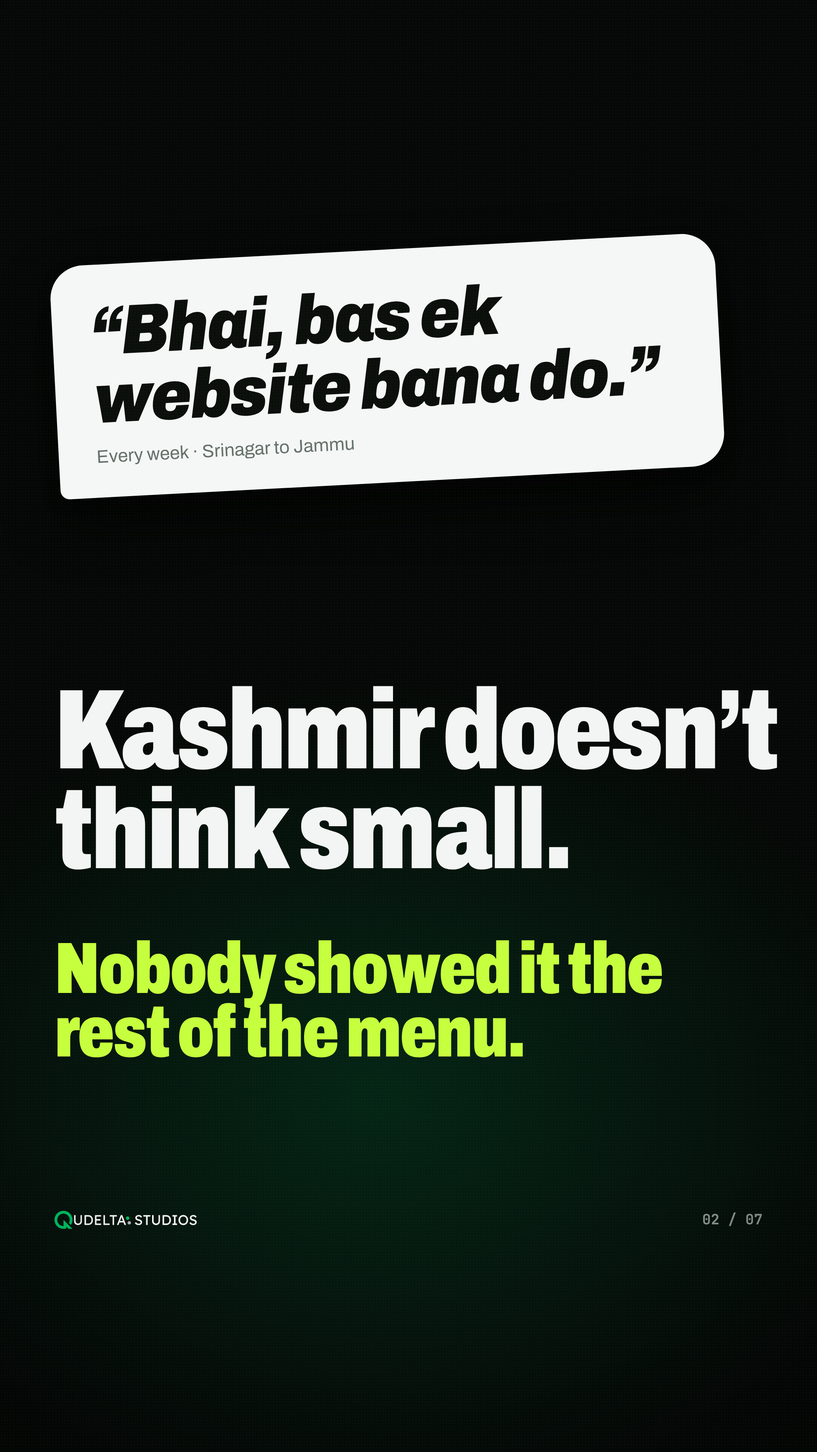
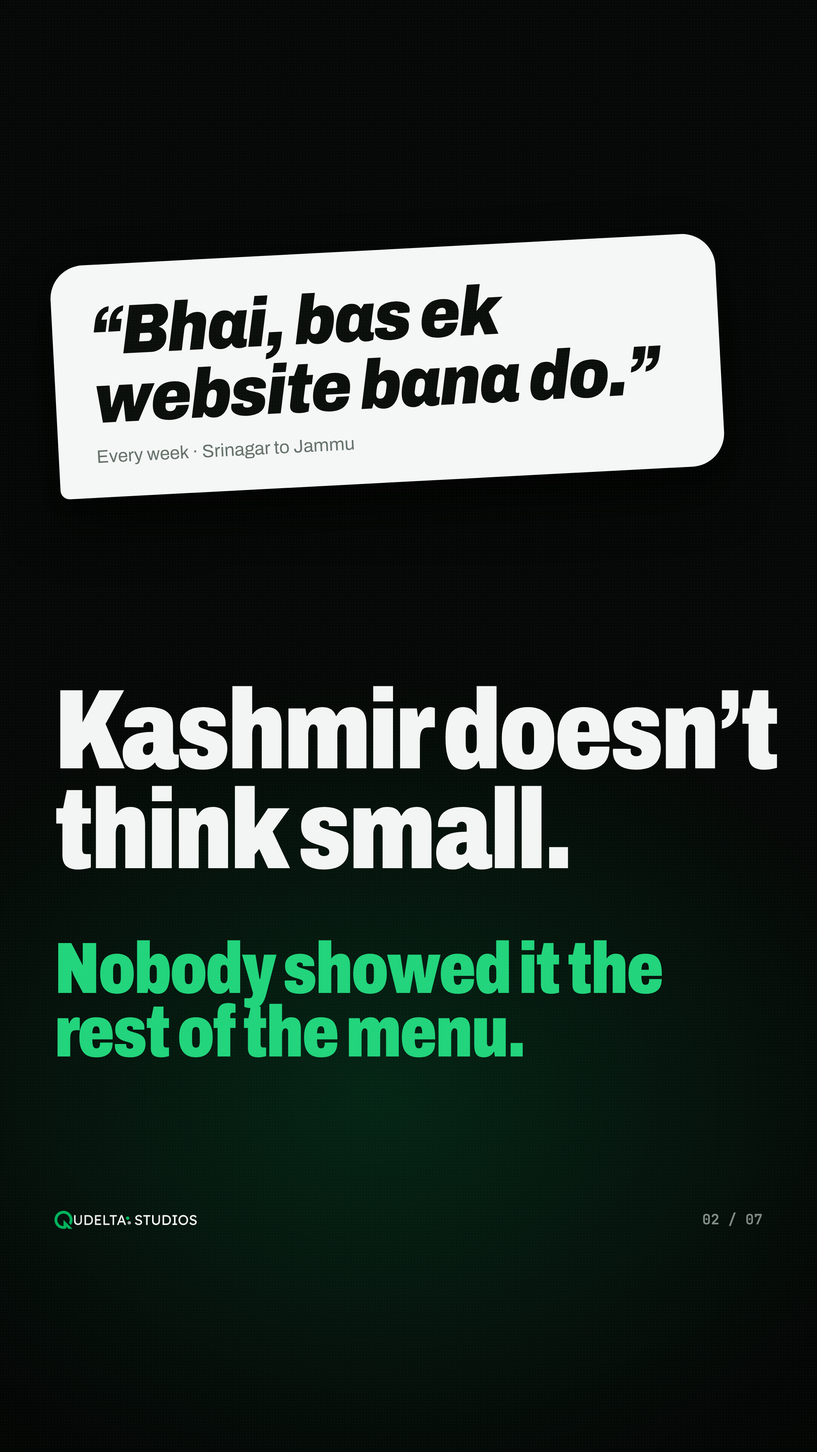
Rest-of-the-menu posts: brand green as the main accent, lime only as a touch
Headline highlights, labels, buttons, icon plates and the question card are
Qudelta green again. Lime stays only on small details: the 'Your website'
tag, sticker pills, course numbers, the pipeline's bright core and the ₹ node.

Claude-Session: https://claude.ai/code/session_012ycmUoM6bvi6M51m5bkEgc

Changed region(s): [[0.062, 0.625, 0.8065, 0.75]]

diff --git a/qudelta-brand/rest-of-menu/carousel.html b/qudelta-brand/rest-of-menu/carousel.html
@@ -27,10 +27,10 @@
 
   <!-- atmosphere across the whole strip -->
   <div class="blob" style="left:-300px;top:-400px;width:1300px;height:1100px;background:radial-gradient(closest-side,rgba(0,191,99,.20),transparent)"></div>
-  <div class="blob" style="left:500px;top:420px;width:1200px;height:1200px;background:radial-gradient(closest-side,rgba(198,255,61,.09),transparent)"></div>
+  <div class="blob" style="left:500px;top:420px;width:1200px;height:1200px;background:radial-gradient(closest-side,rgba(0,191,99,.10),transparent)"></div>
   <div class="blob" style="left:3300px;top:300px;width:3200px;height:1300px;background:radial-gradient(closest-side,rgba(0,191,99,.13),transparent)"></div>
   <div class="blob" style="left:6500px;top:400px;width:1300px;height:1300px;background:radial-gradient(closest-side,rgba(0,191,99,.14),transparent)"></div>
-  <div class="blob" style="left:7700px;top:300px;width:1100px;height:1300px;background:radial-gradient(closest-side,rgba(198,255,61,.08),transparent)"></div>
+  <div class="blob" style="left:7700px;top:300px;width:1100px;height:1300px;background:radial-gradient(closest-side,rgba(0,191,99,.09),transparent)"></div>
   <div class="blob" style="left:8700px;top:400px;width:1200px;height:1300px;background:radial-gradient(closest-side,rgba(0,191,99,.14),transparent)"></div>
   <div class="blob" style="left:11700px;top:-100px;width:1400px;height:1300px;background:radial-gradient(closest-side,rgba(0,191,99,.22),transparent)"></div>
 
@@ -38,8 +38,8 @@
   <svg class="wire" width="12960" height="1350" viewBox="0 0 12960 1350">
     <defs><filter id="gl" x="-5%" y="-50%" width="110%" height="200%"><feGaussianBlur stdDeviation="9"/></filter></defs>
     <g fill="none" stroke-linecap="round">
-      <path d="M3240,930 L3850,930 C4150,930 4400,860 4720,860 C4900,860 4950,1130 5120,1130 C5450,1130 5750,830 6020,830 L6330,830" stroke="#C6FF3D" stroke-width="20" opacity=".35" filter="url(#gl)"/>
-      <path d="M3240,930 L3850,930 C4150,930 4400,860 4720,860 C4900,860 4950,1130 5120,1130 C5450,1130 5750,830 6020,830 L6330,830" stroke="#C6FF3D" stroke-width="6"/>
+      <path d="M3240,930 L3850,930 C4150,930 4400,860 4720,860 C4900,860 4950,1130 5120,1130 C5450,1130 5750,830 6020,830 L6330,830" stroke="#00BF63" stroke-width="20" opacity=".35" filter="url(#gl)"/>
+      <path d="M3240,930 L3850,930 C4150,930 4400,860 4720,860 C4900,860 4950,1130 5120,1130 C5450,1130 5750,830 6020,830 L6330,830" stroke="#00BF63" stroke-width="7"/><path d="M3240,930 L3850,930 C4150,930 4400,860 4720,860 C4900,860 4950,1130 5120,1130 C5450,1130 5750,830 6020,830 L6330,830" stroke="#C6FF3D" stroke-width="2"/>
     </g>
   </svg>
 
@@ -53,7 +53,7 @@
     <span class="ghost" style="left:150px;top:1210px;--d:130px">App?</span>
     <div class="plate" style="left:1080px;top:1010px;--d:860px;z-index:3"><img class="p" src="assets/traem.png" alt=""><img class="rice" src="assets/rice.png" alt=""></div>
     <svg class="z" style="left:330px;top:990px" width="590" height="40"><path d="M0,20 L575,20" stroke="#C6FF3D" stroke-width="3"/><circle cx="575" cy="20" r="9" fill="#C6FF3D"/><circle cx="575" cy="20" r="18" fill="#C6FF3D" opacity=".25"/></svg>
-    <span class="pill z" style="left:72px;top:979px">Your website</span>
+    <span class="pill lime z" style="left:72px;top:979px">Your website</span>
   </section>
 
   <!-- 02 · only the rice -->
@@ -183,7 +183,7 @@
         <div class="m in">Booked! Shukriya.<small>2:16 am</small></div>
         <span class="sys"><svg class="ic" aria-hidden="true" xmlns="http://www.w3.org/2000/svg" viewBox="0 0 256 256" fill="currentColor"><path d="M232.49,80.49l-128,128a12,12,0,0,1-17,0l-56-56a12,12,0,1,1,17-17L96,183,215.51,63.51a12,12,0,0,1,17,17Z"/></svg>₹3,000 received</span>
       </div></div></div>
-    <span class="pill z" style="left:690px;top:690px;transform:rotate(6deg)"><svg class="ic" aria-hidden="true" xmlns="http://www.w3.org/2000/svg" viewBox="0 0 256 256" fill="currentColor"><path d="M213.85,125.46l-112,120a8,8,0,0,1-13.69-7l14.66-73.33L45.19,143.49a8,8,0,0,1-3-13l112-120a8,8,0,0,1,13.69,7L153.18,90.9l57.63,21.61a8,8,0,0,1,3,12.95Z"/></svg>Replied in 6 sec</span>
+    <span class="pill lime z" style="left:690px;top:690px;transform:rotate(6deg)"><svg class="ic" aria-hidden="true" xmlns="http://www.w3.org/2000/svg" viewBox="0 0 256 256" fill="currentColor"><path d="M213.85,125.46l-112,120a8,8,0,0,1-13.69-7l14.66-73.33L45.19,143.49a8,8,0,0,1-3-13l112-120a8,8,0,0,1,13.69,7L153.18,90.9l57.63,21.61a8,8,0,0,1,3,12.95Z"/></svg>Replied in 6 sec</span>
   </section>
 
   <!-- 08 · pashmina -->
@@ -196,7 +196,7 @@
         <div class="pd"><b>Kani Pashmina Shawl</b><div class="sm">Hand-woven in Kanihama</div>
           <div class="cur"><span class="on">USD</span><span>EUR</span><span>GBP</span><span>AED</span></div>
           <div class="pr"><b>$1,240</b><span><svg class="ic" aria-hidden="true" xmlns="http://www.w3.org/2000/svg" viewBox="0 0 256 256" fill="currentColor"><path d="M216,36H40A20,20,0,0,0,20,56V200a20,20,0,0,0,20,20H216a20,20,0,0,0,20-20V56A20,20,0,0,0,216,36Zm-4,160H44V60H212ZM76,88a12,12,0,0,1,24,0,28,28,0,0,0,56,0,12,12,0,0,1,24,0A52,52,0,0,1,76,88Z"/></svg>Add to cart</span></div></div></div></div></div>
-    <span class="pill z" style="left:700px;top:620px;transform:rotate(-5deg)"><svg class="ic" aria-hidden="true" xmlns="http://www.w3.org/2000/svg" viewBox="0 0 256 256" fill="currentColor"><path d="M225.86,102.82c-3.77-3.94-7.67-8-9.14-11.57-1.36-3.27-1.44-8.69-1.52-13.94-.15-9.76-.31-20.82-8-28.51s-18.75-7.85-28.51-8c-5.25-.08-10.67-.16-13.94-1.52-3.56-1.47-7.63-5.37-11.57-9.14C146.28,23.51,138.44,16,128,16s-18.27,7.51-25.18,14.14c-3.94,3.77-8,7.67-11.57,9.14C88,40.64,82.56,40.72,77.31,40.8c-9.76.15-20.82.31-28.51,8S41,67.55,40.8,77.31c-.08,5.25-.16,10.67-1.52,13.94-1.47,3.56-5.37,7.63-9.14,11.57C23.51,109.72,16,117.56,16,128s7.51,18.27,14.14,25.18c3.77,3.94,7.67,8,9.14,11.57,1.36,3.27,1.44,8.69,1.52,13.94.15,9.76.31,20.82,8,28.51s18.75,7.85,28.51,8c5.25.08,10.67.16,13.94,1.52,3.56,1.47,7.63,5.37,11.57,9.14C109.72,232.49,117.56,240,128,240s18.27-7.51,25.18-14.14c3.94-3.77,8-7.67,11.57-9.14,3.27-1.36,8.69-1.44,13.94-1.52,9.76-.15,20.82-.31,28.51-8s7.85-18.75,8-28.51c.08-5.25.16-10.67,1.52-13.94,1.47-3.56,5.37-7.63,9.14-11.57C232.49,146.28,240,138.44,240,128S232.49,109.73,225.86,102.82Zm-52.2,6.84-56,56a8,8,0,0,1-11.32,0l-24-24a8,8,0,0,1,11.32-11.32L112,148.69l50.34-50.35a8,8,0,0,1,11.32,11.32Z"/></svg>Origin verified</span>
+    <span class="pill lime z" style="left:700px;top:620px;transform:rotate(-5deg)"><svg class="ic" aria-hidden="true" xmlns="http://www.w3.org/2000/svg" viewBox="0 0 256 256" fill="currentColor"><path d="M225.86,102.82c-3.77-3.94-7.67-8-9.14-11.57-1.36-3.27-1.44-8.69-1.52-13.94-.15-9.76-.31-20.82-8-28.51s-18.75-7.85-28.51-8c-5.25-.08-10.67-.16-13.94-1.52-3.56-1.47-7.63-5.37-11.57-9.14C146.28,23.51,138.44,16,128,16s-18.27,7.51-25.18,14.14c-3.94,3.77-8,7.67-11.57,9.14C88,40.64,82.56,40.72,77.31,40.8c-9.76.15-20.82.31-28.51,8S41,67.55,40.8,77.31c-.08,5.25-.16,10.67-1.52,13.94-1.47,3.56-5.37,7.63-9.14,11.57C23.51,109.72,16,117.56,16,128s7.51,18.27,14.14,25.18c3.77,3.94,7.67,8,9.14,11.57,1.36,3.27,1.44,8.69,1.52,13.94.15,9.76.31,20.82,8,28.51s18.75,7.85,28.51,8c5.25.08,10.67.16,13.94,1.52,3.56,1.47,7.63,5.37,11.57,9.14C109.72,232.49,117.56,240,128,240s18.27-7.51,25.18-14.14c3.94-3.77,8-7.67,11.57-9.14,3.27-1.36,8.69-1.44,13.94-1.52,9.76-.15,20.82-.31,28.51-8s7.85-18.75,8-28.51c.08-5.25.16-10.67,1.52-13.94,1.47-3.56,5.37-7.63,9.14-11.57C232.49,146.28,240,138.44,240,128S232.49,109.73,225.86,102.82Zm-52.2,6.84-56,56a8,8,0,0,1-11.32,0l-24-24a8,8,0,0,1,11.32-11.32L112,148.69l50.34-50.35a8,8,0,0,1,11.32,11.32Z"/></svg>Origin verified</span>
   </section>
 
   <!-- 09 · orchards -->
@@ -210,7 +210,7 @@
         <div class="r"><b>American</b><span>₹920 <small>/ box</small></span></div>
         <div class="r"><b>Kullu Delicious</b><span>₹1,060 <small>/ box</small></span></div>
         <div class="go"><svg class="ic" aria-hidden="true" xmlns="http://www.w3.org/2000/svg" viewBox="0 0 256 256" fill="currentColor"><path d="M152.58,145.23l23,11.48A24,24,0,0,1,152,176a72.08,72.08,0,0,1-72-72A24,24,0,0,1,99.29,80.46l11.48,23L101,118a8,8,0,0,0-.73,7.51,56.47,56.47,0,0,0,30.15,30.15A8,8,0,0,0,138,155ZM232,128A104,104,0,0,1,79.12,219.82L45.07,231.17a16,16,0,0,1-20.24-20.24l11.35-34.05A104,104,0,1,1,232,128Zm-40,24a8,8,0,0,0-4.42-7.16l-32-16a8,8,0,0,0-8,.5l-14.69,9.8a40.55,40.55,0,0,1-16-16l9.8-14.69a8,8,0,0,0,.5-8l-16-32A8,8,0,0,0,104,64a40,40,0,0,0-40,40,88.1,88.1,0,0,0,88,88A40,40,0,0,0,192,152Z"/></svg>Send to 312 buyers</div></div></div></div>
-    <span class="pill z" style="left:690px;top:640px;transform:rotate(5deg)"><svg class="ic" aria-hidden="true" xmlns="http://www.w3.org/2000/svg" viewBox="0 0 256 256" fill="currentColor"><path d="M152.41,88.56l-89.6,88a12,12,0,0,1-16.82,0L7.59,138.85a12,12,0,0,1,16.82-17.13l30,29.46,81.19-79.74a12,12,0,0,1,16.82,17.12Zm96.15-17a12,12,0,0,0-17-.15L150.4,151.18l-7.88-7.74a12,12,0,0,0-16.82,17.12l16.29,16a12,12,0,0,0,16.82,0l89.6-88A12,12,0,0,0,248.56,71.59Z"/></svg>Delivered to 312</span>
+    <span class="pill lime z" style="left:690px;top:640px;transform:rotate(5deg)"><svg class="ic" aria-hidden="true" xmlns="http://www.w3.org/2000/svg" viewBox="0 0 256 256" fill="currentColor"><path d="M152.41,88.56l-89.6,88a12,12,0,0,1-16.82,0L7.59,138.85a12,12,0,0,1,16.82-17.13l30,29.46,81.19-79.74a12,12,0,0,1,16.82,17.12Zm96.15-17a12,12,0,0,0-17-.15L150.4,151.18l-7.88-7.74a12,12,0,0,0-16.82,17.12l16.29,16a12,12,0,0,0,16.82,0l89.6-88A12,12,0,0,0,248.56,71.59Z"/></svg>Delivered to 312</span>
     <span class="pill dark z" style="left:80px;top:1180px;transform:rotate(-3deg)"><svg class="ic" aria-hidden="true" xmlns="http://www.w3.org/2000/svg" viewBox="0 0 256 256" fill="currentColor"><path d="M224,71.1a8,8,0,0,1-10.78-3.42,94.13,94.13,0,0,0-33.46-36.91,8,8,0,1,1,8.54-13.54,111.46,111.46,0,0,1,39.12,43.09A8,8,0,0,1,224,71.1ZM35.71,72a8,8,0,0,0,7.1-4.32A94.13,94.13,0,0,1,76.27,30.77a8,8,0,1,0-8.54-13.54A111.46,111.46,0,0,0,28.61,60.32,8,8,0,0,0,35.71,72Zm186.1,103.94A16,16,0,0,1,208,200H167.2a40,40,0,0,1-78.4,0H48a16,16,0,0,1-13.79-24.06C43.22,160.39,48,138.28,48,112a80,80,0,0,1,160,0C208,138.27,212.78,160.38,221.81,175.94ZM150.62,200H105.38a24,24,0,0,0,45.24,0Z"/></svg>Dues reminded: 11</span>
   </section>
 
@@ -239,7 +239,7 @@
     <div class="z" style="left:72px;top:310px;padding:34px 40px;border-radius:40px 40px 40px 12px;border:3px dashed rgba(255,255,255,.22);transform:rotate(-2deg)">
       <p class="hx" style="font-size:104px;color:var(--faint);text-decoration:line-through;text-decoration-color:var(--lime);text-decoration-thickness:8px">“Website kitne ka?”</p></div>
     <div class="kx z" style="left:72px;top:640px">Start asking</div>
-    <div class="z" style="left:72px;top:690px;width:936px;padding:44px 48px 48px;border-radius:44px 44px 44px 12px;background:var(--lime);color:var(--on-lime);transform:rotate(1.5deg);box-shadow:0 40px 80px rgba(0,0,0,.5)">
+    <div class="z" style="left:72px;top:690px;width:936px;padding:44px 48px 48px;border-radius:44px 44px 44px 12px;background:var(--green);color:var(--on-lime);transform:rotate(1.5deg);box-shadow:0 40px 80px rgba(0,0,0,.5)">
       <p class="hx" style="font-size:128px">“Customers kahan kho rahe hain?”</p></div>
   </section>
 

diff --git a/qudelta-brand/rest-of-menu/story.html b/qudelta-brand/rest-of-menu/story.html
@@ -14,7 +14,7 @@
   .foot{left:72px;right:72px;top:1600px;display:flex;align-items:center;justify-content:space-between;z-index:6}
   .foot img{height:24px}
   .foot span{display:flex;align-items:center;gap:10px;font-family:'JetBrains Mono',monospace;font-size:19px;font-weight:700;color:var(--muted)}
-  .foot span .ic{font-size:24px;color:var(--lime)}
+  .foot span .ic{font-size:24px;color:var(--green-hi)}
   .z{z-index:5}
   .wire{left:0;top:0;z-index:1}
 </style>
@@ -24,7 +24,7 @@
 <!-- 1 · Dear Kashmir -->
 <section class="story">
   <div class="blob" style="left:-300px;top:-200px;width:1300px;height:1100px;background:radial-gradient(closest-side,rgba(0,191,99,.22),transparent)"></div>
-  <div class="blob" style="left:0;top:700px;width:1080px;height:1000px;background:radial-gradient(closest-side,rgba(198,255,61,.08),transparent)"></div>
+  <div class="blob" style="left:0;top:700px;width:1080px;height:1000px;background:radial-gradient(closest-side,rgba(0,191,99,.09),transparent)"></div>
   <div class="it z" style="left:72px;top:270px;font-size:52px">Dear Kashmir,</div>
   <div class="hx z" style="left:68px;top:340px;font-size:196px">Wazwan has<br><span class="l">36 courses.</span></div>
   <span class="ghost" style="left:130px;top:860px;--d:150px">CRM?</span>
@@ -32,7 +32,7 @@
   <span class="ghost" style="left:90px;top:1390px;--d:130px">App?</span>
   <span class="ghost" style="left:990px;top:1400px;--d:130px">Ads?</span>
   <div class="plate" style="left:540px;top:1090px;--d:740px;z-index:3"><img class="p" src="assets/traem.png" alt=""><img class="rice" src="assets/rice.png" alt=""></div>
-  <span class="pill z" style="left:600px;top:960px;transform:rotate(-6deg)">Your website</span>
+  <span class="pill lime z" style="left:600px;top:960px;transform:rotate(-6deg)">Your website</span>
   <div class="hx z" style="left:72px;top:1494px;width:936px;text-align:center;font-size:82px;text-shadow:0 6px 30px rgba(0,0,0,.9)">You only order <span class="l">the rice.</span></div>
   <div class="foot"><img src="assets/qudelta-logo-light.png" alt="Qudelta Studios"><span>Tap <svg class="ic" aria-hidden="true" xmlns="http://www.w3.org/2000/svg" viewBox="0 0 256 256" fill="currentColor"><path d="M224.49,136.49l-72,72a12,12,0,0,1-17-17L187,140H40a12,12,0,0,1,0-24H187L135.51,64.48a12,12,0,0,1,17-17l72,72A12,12,0,0,1,224.49,136.49Z"/></svg></span></div>
   <div class="vig"></div><div class="grain"></div>
@@ -114,9 +114,10 @@
 <!-- 4 · the pipeline -->
 <section class="story">
   <div class="blob" style="left:0;top:500px;width:1080px;height:1300px;background:radial-gradient(closest-side,rgba(0,191,99,.14),transparent)"></div>
-  <svg class="wire" width="1080" height="1920"><g fill="none" stroke="#C6FF3D" stroke-linecap="round">
+  <svg class="wire" width="1080" height="1920"><g fill="none" stroke="#00BF63" stroke-linecap="round">
     <path d="M330,640 C330,800 760,800 760,990 C760,1180 330,1180 330,1360 L330,1560" stroke-width="22" opacity=".3" style="filter:blur(8px)"/>
-    <path d="M330,640 C330,800 760,800 760,990 C760,1180 330,1180 330,1360 L330,1560" stroke-width="6"/></g></svg>
+    <path d="M330,640 C330,800 760,800 760,990 C760,1180 330,1180 330,1360 L330,1560" stroke-width="7"/>
+    <path d="M330,640 C330,800 760,800 760,990 C760,1180 330,1180 330,1360 L330,1560" stroke="#C6FF3D" stroke-width="2"/></g></svg>
   <div class="hx z" style="left:72px;top:280px;font-size:118px">The money is in the<br><span class="l">other 35 courses.</span></div>
   <div class="plate cu" style="left:330px;top:700px;--d:340px;z-index:3"><img class="p" src="assets/traem.png" alt=""><span class="on glyph"><svg class="ic" aria-hidden="true" xmlns="http://www.w3.org/2000/svg" viewBox="0 0 256 256" fill="currentColor"><path d="M192,112a80,80,0,1,1-80-80A80,80,0,0,1,192,112Z" opacity="0.2"/><path d="M229.66,218.34,179.6,168.28a88.21,88.21,0,1,0-11.32,11.31l50.06,50.07a8,8,0,0,0,11.32-11.32ZM40,112a72,72,0,1,1,72,72A72.08,72.08,0,0,1,40,112Z"/></svg></span></div>
   <div class="lab z" style="left:540px;top:640px"><small>COURSE 02</small><b>Get found.</b></div>
@@ -145,19 +146,19 @@
       <div class="m in">Booked! Shukriya.<small>2:16 am</small></div>
       <span class="sys"><svg class="ic" aria-hidden="true" xmlns="http://www.w3.org/2000/svg" viewBox="0 0 256 256" fill="currentColor"><path d="M232.49,80.49l-128,128a12,12,0,0,1-17,0l-56-56a12,12,0,1,1,17-17L96,183,215.51,63.51a12,12,0,0,1,17,17Z"/></svg>₹3,000 received</span>
     </div></div></div>
-  <span class="pill z" style="left:620px;top:860px;transform:rotate(6deg)"><svg class="ic" aria-hidden="true" xmlns="http://www.w3.org/2000/svg" viewBox="0 0 256 256" fill="currentColor"><path d="M213.85,125.46l-112,120a8,8,0,0,1-13.69-7l14.66-73.33L45.19,143.49a8,8,0,0,1-3-13l112-120a8,8,0,0,1,13.69,7L153.18,90.9l57.63,21.61a8,8,0,0,1,3,12.95Z"/></svg>Replied in 6 sec</span>
+  <span class="pill lime z" style="left:620px;top:860px;transform:rotate(6deg)"><svg class="ic" aria-hidden="true" xmlns="http://www.w3.org/2000/svg" viewBox="0 0 256 256" fill="currentColor"><path d="M213.85,125.46l-112,120a8,8,0,0,1-13.69-7l14.66-73.33L45.19,143.49a8,8,0,0,1-3-13l112-120a8,8,0,0,1,13.69,7L153.18,90.9l57.63,21.61a8,8,0,0,1,3,12.95Z"/></svg>Replied in 6 sec</span>
   <div class="foot"><img src="assets/qudelta-logo-light.png" alt="Qudelta Studios"><span>05 / 07</span></div>
   <div class="vig"></div><div class="grain"></div>
 </section>
 
 <!-- 6 · the better question -->
 <section class="story">
-  <div class="blob" style="left:-100px;top:700px;width:1300px;height:1100px;background:radial-gradient(closest-side,rgba(198,255,61,.08),transparent)"></div>
+  <div class="blob" style="left:-100px;top:700px;width:1300px;height:1100px;background:radial-gradient(closest-side,rgba(0,191,99,.09),transparent)"></div>
   <div class="kx z" style="left:72px;top:300px;color:var(--muted)">Stop asking</div>
   <div class="z" style="left:72px;top:350px;padding:36px 42px;border-radius:40px 40px 40px 12px;border:3px dashed rgba(255,255,255,.22);transform:rotate(-2deg)">
     <p class="hx" style="font-size:112px;color:var(--faint);text-decoration:line-through;text-decoration-color:var(--lime);text-decoration-thickness:9px">“Website kitne ka?”</p></div>
   <div class="kx z" style="left:72px;top:690px">Start asking</div>
-  <div class="z" style="left:72px;top:740px;width:936px;padding:50px 52px 56px;border-radius:44px 44px 44px 12px;background:var(--lime);color:var(--on-lime);transform:rotate(1.5deg);box-shadow:0 40px 80px rgba(0,0,0,.5)">
+  <div class="z" style="left:72px;top:740px;width:936px;padding:50px 52px 56px;border-radius:44px 44px 44px 12px;background:var(--green);color:var(--on-lime);transform:rotate(1.5deg);box-shadow:0 40px 80px rgba(0,0,0,.5)">
     <p class="hx" style="font-size:150px">“Customers kahan kho rahe hain?”</p></div>
   <div class="z" style="left:72px;top:1390px;display:flex;align-items:center;gap:16px;font-weight:700;font-size:34px;color:var(--ink-2)"><svg class="ic" aria-hidden="true" xmlns="http://www.w3.org/2000/svg" viewBox="0 0 256 256" fill="currentColor"><path d="M128,24A104,104,0,0,0,36.18,176.88L24.83,210.93a16,16,0,0,0,20.24,20.24l34.05-11.35A104,104,0,1,0,128,24ZM84,140a12,12,0,1,1,12-12A12,12,0,0,1,84,140Zm44,0a12,12,0,1,1,12-12A12,12,0,0,1,128,140Zm44,0a12,12,0,1,1,12-12A12,12,0,0,1,172,140Z"/></svg>Reply with your business. We’ll show you its menu.</div>
   <div class="foot"><img src="assets/qudelta-logo-light.png" alt="Qudelta Studios"><span>06 / 07</span></div>

diff --git a/qudelta-brand/rest-of-menu/carousel.src.html b/qudelta-brand/rest-of-menu/carousel.src.html
@@ -27,10 +27,10 @@
 
   <!-- atmosphere across the whole strip -->
   <div class="blob" style="left:-300px;top:-400px;width:1300px;height:1100px;background:radial-gradient(closest-side,rgba(0,191,99,.20),transparent)"></div>
-  <div class="blob" style="left:500px;top:420px;width:1200px;height:1200px;background:radial-gradient(closest-side,rgba(198,255,61,.09),transparent)"></div>
+  <div class="blob" style="left:500px;top:420px;width:1200px;height:1200px;background:radial-gradient(closest-side,rgba(0,191,99,.10),transparent)"></div>
   <div class="blob" style="left:3300px;top:300px;width:3200px;height:1300px;background:radial-gradient(closest-side,rgba(0,191,99,.13),transparent)"></div>
   <div class="blob" style="left:6500px;top:400px;width:1300px;height:1300px;background:radial-gradient(closest-side,rgba(0,191,99,.14),transparent)"></div>
-  <div class="blob" style="left:7700px;top:300px;width:1100px;height:1300px;background:radial-gradient(closest-side,rgba(198,255,61,.08),transparent)"></div>
+  <div class="blob" style="left:7700px;top:300px;width:1100px;height:1300px;background:radial-gradient(closest-side,rgba(0,191,99,.09),transparent)"></div>
   <div class="blob" style="left:8700px;top:400px;width:1200px;height:1300px;background:radial-gradient(closest-side,rgba(0,191,99,.14),transparent)"></div>
   <div class="blob" style="left:11700px;top:-100px;width:1400px;height:1300px;background:radial-gradient(closest-side,rgba(0,191,99,.22),transparent)"></div>
 
@@ -38,8 +38,8 @@
   <svg class="wire" width="12960" height="1350" viewBox="0 0 12960 1350">
     <defs><filter id="gl" x="-5%" y="-50%" width="110%" height="200%"><feGaussianBlur stdDeviation="9"/></filter></defs>
     <g fill="none" stroke-linecap="round">
-      <path d="M3240,930 L3850,930 C4150,930 4400,860 4720,860 C4900,860 4950,1130 5120,1130 C5450,1130 5750,830 6020,830 L6330,830" stroke="#C6FF3D" stroke-width="20" opacity=".35" filter="url(#gl)"/>
-      <path d="M3240,930 L3850,930 C4150,930 4400,860 4720,860 C4900,860 4950,1130 5120,1130 C5450,1130 5750,830 6020,830 L6330,830" stroke="#C6FF3D" stroke-width="6"/>
+      <path d="M3240,930 L3850,930 C4150,930 4400,860 4720,860 C4900,860 4950,1130 5120,1130 C5450,1130 5750,830 6020,830 L6330,830" stroke="#00BF63" stroke-width="20" opacity=".35" filter="url(#gl)"/>
+      <path d="M3240,930 L3850,930 C4150,930 4400,860 4720,860 C4900,860 4950,1130 5120,1130 C5450,1130 5750,830 6020,830 L6330,830" stroke="#00BF63" stroke-width="7"/><path d="M3240,930 L3850,930 C4150,930 4400,860 4720,860 C4900,860 4950,1130 5120,1130 C5450,1130 5750,830 6020,830 L6330,830" stroke="#C6FF3D" stroke-width="2"/>
     </g>
   </svg>
 
@@ -53,7 +53,7 @@
     <span class="ghost" style="left:150px;top:1210px;--d:130px">App?</span>
     <div class="plate" style="left:1080px;top:1010px;--d:860px;z-index:3"><img class="p" src="assets/traem.png" alt=""><img class="rice" src="assets/rice.png" alt=""></div>
     <svg class="z" style="left:330px;top:990px" width="590" height="40"><path d="M0,20 L575,20" stroke="#C6FF3D" stroke-width="3"/><circle cx="575" cy="20" r="9" fill="#C6FF3D"/><circle cx="575" cy="20" r="18" fill="#C6FF3D" opacity=".25"/></svg>
-    <span class="pill z" style="left:72px;top:979px">Your website</span>
+    <span class="pill lime z" style="left:72px;top:979px">Your website</span>
   </section>
 
   <!-- 02 · only the rice -->
@@ -132,7 +132,7 @@
         <div class="m in">Booked! Shukriya.<small>2:16 am</small></div>
         <span class="sys">{{i:check:bold}}₹3,000 received</span>
       </div></div></div>
-    <span class="pill z" style="left:690px;top:690px;transform:rotate(6deg)">{{i:lightning:fill}}Replied in 6 sec</span>
+    <span class="pill lime z" style="left:690px;top:690px;transform:rotate(6deg)">{{i:lightning:fill}}Replied in 6 sec</span>
   </section>
 
   <!-- 08 · pashmina -->
@@ -145,7 +145,7 @@
         <div class="pd"><b>Kani Pashmina Shawl</b><div class="sm">Hand-woven in Kanihama</div>
           <div class="cur"><span class="on">USD</span><span>EUR</span><span>GBP</span><span>AED</span></div>
           <div class="pr"><b>$1,240</b><span>{{i:shopping-bag:bold}}Add to cart</span></div></div></div></div></div>
-    <span class="pill z" style="left:700px;top:620px;transform:rotate(-5deg)">{{i:seal-check:fill}}Origin verified</span>
+    <span class="pill lime z" style="left:700px;top:620px;transform:rotate(-5deg)">{{i:seal-check:fill}}Origin verified</span>
   </section>
 
   <!-- 09 · orchards -->
@@ -159,7 +159,7 @@
         <div class="r"><b>American</b><span>₹920 <small>/ box</small></span></div>
         <div class="r"><b>Kullu Delicious</b><span>₹1,060 <small>/ box</small></span></div>
         <div class="go">{{i:whatsapp-logo:fill}}Send to 312 buyers</div></div></div></div>
-    <span class="pill z" style="left:690px;top:640px;transform:rotate(5deg)">{{i:checks:bold}}Delivered to 312</span>
+    <span class="pill lime z" style="left:690px;top:640px;transform:rotate(5deg)">{{i:checks:bold}}Delivered to 312</span>
     <span class="pill dark z" style="left:80px;top:1180px;transform:rotate(-3deg)">{{i:bell-ringing:fill}}Dues reminded: 11</span>
   </section>
 
@@ -188,7 +188,7 @@
     <div class="z" style="left:72px;top:310px;padding:34px 40px;border-radius:40px 40px 40px 12px;border:3px dashed rgba(255,255,255,.22);transform:rotate(-2deg)">
       <p class="hx" style="font-size:104px;color:var(--faint);text-decoration:line-through;text-decoration-color:var(--lime);text-decoration-thickness:8px">“Website kitne ka?”</p></div>
     <div class="kx z" style="left:72px;top:640px">Start asking</div>
-    <div class="z" style="left:72px;top:690px;width:936px;padding:44px 48px 48px;border-radius:44px 44px 44px 12px;background:var(--lime);color:var(--on-lime);transform:rotate(1.5deg);box-shadow:0 40px 80px rgba(0,0,0,.5)">
+    <div class="z" style="left:72px;top:690px;width:936px;padding:44px 48px 48px;border-radius:44px 44px 44px 12px;background:var(--green);color:var(--on-lime);transform:rotate(1.5deg);box-shadow:0 40px 80px rgba(0,0,0,.5)">
       <p class="hx" style="font-size:128px">“Customers kahan kho rahe hain?”</p></div>
   </section>
 

diff --git a/qudelta-brand/rest-of-menu/story.src.html b/qudelta-brand/rest-of-menu/story.src.html
@@ -14,7 +14,7 @@
   .foot{left:72px;right:72px;top:1600px;display:flex;align-items:center;justify-content:space-between;z-index:6}
   .foot img{height:24px}
   .foot span{display:flex;align-items:center;gap:10px;font-family:'JetBrains Mono',monospace;font-size:19px;font-weight:700;color:var(--muted)}
-  .foot span .ic{font-size:24px;color:var(--lime)}
+  .foot span .ic{font-size:24px;color:var(--green-hi)}
   .z{z-index:5}
   .wire{left:0;top:0;z-index:1}
 </style>
@@ -24,7 +24,7 @@
 <!-- 1 · Dear Kashmir -->
 <section class="story">
   <div class="blob" style="left:-300px;top:-200px;width:1300px;height:1100px;background:radial-gradient(closest-side,rgba(0,191,99,.22),transparent)"></div>
-  <div class="blob" style="left:0;top:700px;width:1080px;height:1000px;background:radial-gradient(closest-side,rgba(198,255,61,.08),transparent)"></div>
+  <div class="blob" style="left:0;top:700px;width:1080px;height:1000px;background:radial-gradient(closest-side,rgba(0,191,99,.09),transparent)"></div>
   <div class="it z" style="left:72px;top:270px;font-size:52px">Dear Kashmir,</div>
   <div class="hx z" style="left:68px;top:340px;font-size:196px">Wazwan has<br><span class="l">36 courses.</span></div>
   <span class="ghost" style="left:130px;top:860px;--d:150px">CRM?</span>
@@ -32,7 +32,7 @@
   <span class="ghost" style="left:90px;top:1390px;--d:130px">App?</span>
   <span class="ghost" style="left:990px;top:1400px;--d:130px">Ads?</span>
   <div class="plate" style="left:540px;top:1090px;--d:740px;z-index:3"><img class="p" src="assets/traem.png" alt=""><img class="rice" src="assets/rice.png" alt=""></div>
-  <span class="pill z" style="left:600px;top:960px;transform:rotate(-6deg)">Your website</span>
+  <span class="pill lime z" style="left:600px;top:960px;transform:rotate(-6deg)">Your website</span>
   <div class="hx z" style="left:72px;top:1494px;width:936px;text-align:center;font-size:82px;text-shadow:0 6px 30px rgba(0,0,0,.9)">You only order <span class="l">the rice.</span></div>
   <div class="foot"><img src="assets/qudelta-logo-light.png" alt="Qudelta Studios"><span>Tap {{i:arrow-right:bold}}</span></div>
   <div class="vig"></div><div class="grain"></div>
@@ -63,9 +63,10 @@
 <!-- 4 · the pipeline -->
 <section class="story">
   <div class="blob" style="left:0;top:500px;width:1080px;height:1300px;background:radial-gradient(closest-side,rgba(0,191,99,.14),transparent)"></div>
-  <svg class="wire" width="1080" height="1920"><g fill="none" stroke="#C6FF3D" stroke-linecap="round">
+  <svg class="wire" width="1080" height="1920"><g fill="none" stroke="#00BF63" stroke-linecap="round">
     <path d="M330,640 C330,800 760,800 760,990 C760,1180 330,1180 330,1360 L330,1560" stroke-width="22" opacity=".3" style="filter:blur(8px)"/>
-    <path d="M330,640 C330,800 760,800 760,990 C760,1180 330,1180 330,1360 L330,1560" stroke-width="6"/></g></svg>
+    <path d="M330,640 C330,800 760,800 760,990 C760,1180 330,1180 330,1360 L330,1560" stroke-width="7"/>
+    <path d="M330,640 C330,800 760,800 760,990 C760,1180 330,1180 330,1360 L330,1560" stroke="#C6FF3D" stroke-width="2"/></g></svg>
   <div class="hx z" style="left:72px;top:280px;font-size:118px">The money is in the<br><span class="l">other 35 courses.</span></div>
   <div class="plate cu" style="left:330px;top:700px;--d:340px;z-index:3"><img class="p" src="assets/traem.png" alt=""><span class="on glyph">{{i:magnifying-glass}}</span></div>
   <div class="lab z" style="left:540px;top:640px"><small>COURSE 02</small><b>Get found.</b></div>
@@ -94,19 +95,19 @@
       <div class="m in">Booked! Shukriya.<small>2:16 am</small></div>
       <span class="sys">{{i:check:bold}}₹3,000 received</span>
     </div></div></div>
-  <span class="pill z" style="left:620px;top:860px;transform:rotate(6deg)">{{i:lightning:fill}}Replied in 6 sec</span>
+  <span class="pill lime z" style="left:620px;top:860px;transform:rotate(6deg)">{{i:lightning:fill}}Replied in 6 sec</span>
   <div class="foot"><img src="assets/qudelta-logo-light.png" alt="Qudelta Studios"><span>05 / 07</span></div>
   <div class="vig"></div><div class="grain"></div>
 </section>
 
 <!-- 6 · the better question -->
 <section class="story">
-  <div class="blob" style="left:-100px;top:700px;width:1300px;height:1100px;background:radial-gradient(closest-side,rgba(198,255,61,.08),transparent)"></div>
+  <div class="blob" style="left:-100px;top:700px;width:1300px;height:1100px;background:radial-gradient(closest-side,rgba(0,191,99,.09),transparent)"></div>
   <div class="kx z" style="left:72px;top:300px;color:var(--muted)">Stop asking</div>
   <div class="z" style="left:72px;top:350px;padding:36px 42px;border-radius:40px 40px 40px 12px;border:3px dashed rgba(255,255,255,.22);transform:rotate(-2deg)">
     <p class="hx" style="font-size:112px;color:var(--faint);text-decoration:line-through;text-decoration-color:var(--lime);text-decoration-thickness:9px">“Website kitne ka?”</p></div>
   <div class="kx z" style="left:72px;top:690px">Start asking</div>
-  <div class="z" style="left:72px;top:740px;width:936px;padding:50px 52px 56px;border-radius:44px 44px 44px 12px;background:var(--lime);color:var(--on-lime);transform:rotate(1.5deg);box-shadow:0 40px 80px rgba(0,0,0,.5)">
+  <div class="z" style="left:72px;top:740px;width:936px;padding:50px 52px 56px;border-radius:44px 44px 44px 12px;background:var(--green);color:var(--on-lime);transform:rotate(1.5deg);box-shadow:0 40px 80px rgba(0,0,0,.5)">
     <p class="hx" style="font-size:150px">“Customers kahan kho rahe hain?”</p></div>
   <div class="z" style="left:72px;top:1390px;display:flex;align-items:center;gap:16px;font-weight:700;font-size:34px;color:var(--ink-2)">{{i:chat-circle-dots:fill}}Reply with your business. We’ll show you its menu.</div>
   <div class="foot"><img src="assets/qudelta-logo-light.png" alt="Qudelta Studios"><span>06 / 07</span></div>

diff --git a/qudelta-brand/rest-of-menu/assets/menu.css b/qudelta-brand/rest-of-menu/assets/menu.css
@@ -11,11 +11,11 @@ body{color:var(--ink);font-family:'Archivo',sans-serif;-webkit-font-smoothing:an
 svg{display:block}
 .ic{width:1em;height:1em;flex:none}
 .mono{font-family:'JetBrains Mono',monospace}
-.l{color:var(--lime)}
+.l{color:var(--green-hi)}
 
 /* display type: Archivo Condensed Black */
 .hx{font-weight:900;font-stretch:75%;letter-spacing:-.022em;line-height:.88}
-.kx{font-family:'JetBrains Mono',monospace;font-weight:700;font-size:20px;letter-spacing:.12em;text-transform:uppercase;color:var(--lime)}
+.kx{font-family:'JetBrains Mono',monospace;font-weight:700;font-size:20px;letter-spacing:.12em;text-transform:uppercase;color:var(--green-hi)}
 .it{font-style:italic;font-weight:500;letter-spacing:-.01em;color:var(--ink-2)}
 
 /* atmosphere */
@@ -28,15 +28,16 @@ svg{display:block}
 .plate.cu>img.p{filter:sepia(1) saturate(1.8) hue-rotate(-25deg) brightness(.7) contrast(1.2) drop-shadow(0 44px 50px rgba(0,0,0,.75)) drop-shadow(0 8px 12px rgba(0,0,0,.5))}
 .plate>img.rice{position:absolute;left:50%;top:50%;width:37%;height:37%;transform:translate(-50%,-50%);border-radius:50%;filter:drop-shadow(0 12px 18px rgba(0,0,0,.5))}
 .plate>.on{position:absolute;left:50%;top:50%;transform:translate(-50%,-50%) rotate(var(--r,0deg));z-index:2}
-.plate .glyph{width:46%;height:46%;border-radius:50%;display:grid;place-items:center;background:radial-gradient(circle at 35% 30%,#1D2A22,#0A110D);color:var(--lime);font-size:calc(var(--d) * .2);box-shadow:inset 0 0 0 2px rgba(198,255,61,.35),0 10px 24px rgba(0,0,0,.6)}
+.plate .glyph{width:46%;height:46%;border-radius:50%;display:grid;place-items:center;background:radial-gradient(circle at 35% 30%,#1D2A22,#0A110D);color:var(--green-hi);font-size:calc(var(--d) * .2);box-shadow:inset 0 0 0 2px rgba(0,191,99,.45),0 10px 24px rgba(0,0,0,.6)}
 .ghost{position:absolute;width:var(--d);height:var(--d);transform:translate(-50%,-50%);border-radius:50%;border:3px dashed rgba(255,255,255,.2);display:grid;place-items:center;
   font-family:'JetBrains Mono',monospace;font-weight:700;font-size:22px;color:rgba(255,255,255,.34)}
 
 /* chips */
-.pill{display:inline-flex;align-items:center;gap:10px;height:62px;padding:0 26px;border-radius:999px;background:var(--lime);color:var(--on-lime);font-weight:800;font-stretch:87.5%;font-size:30px;letter-spacing:-.005em;white-space:nowrap;box-shadow:0 16px 40px rgba(0,0,0,.5)}
+.pill{display:inline-flex;align-items:center;gap:10px;height:62px;padding:0 26px;border-radius:999px;background:var(--green);color:var(--on-lime);font-weight:800;font-stretch:87.5%;font-size:30px;letter-spacing:-.005em;white-space:nowrap;box-shadow:0 16px 40px rgba(0,0,0,.5)}
 .pill .ic{font-size:30px}
-.pill.dark{background:#0E1512;color:var(--ink);border:1.5px solid rgba(198,255,61,.45)}
-.pill.dark .ic{color:var(--lime)}
+.pill.lime{background:var(--lime)}  /* lime is only a touch: stickers and small highlights */
+.pill.dark{background:#0E1512;color:var(--ink);border:1.5px solid rgba(0,191,99,.5)}
+.pill.dark .ic{color:var(--green-hi)}
 
 /* course labels next to plates */
 .lab{position:absolute}
